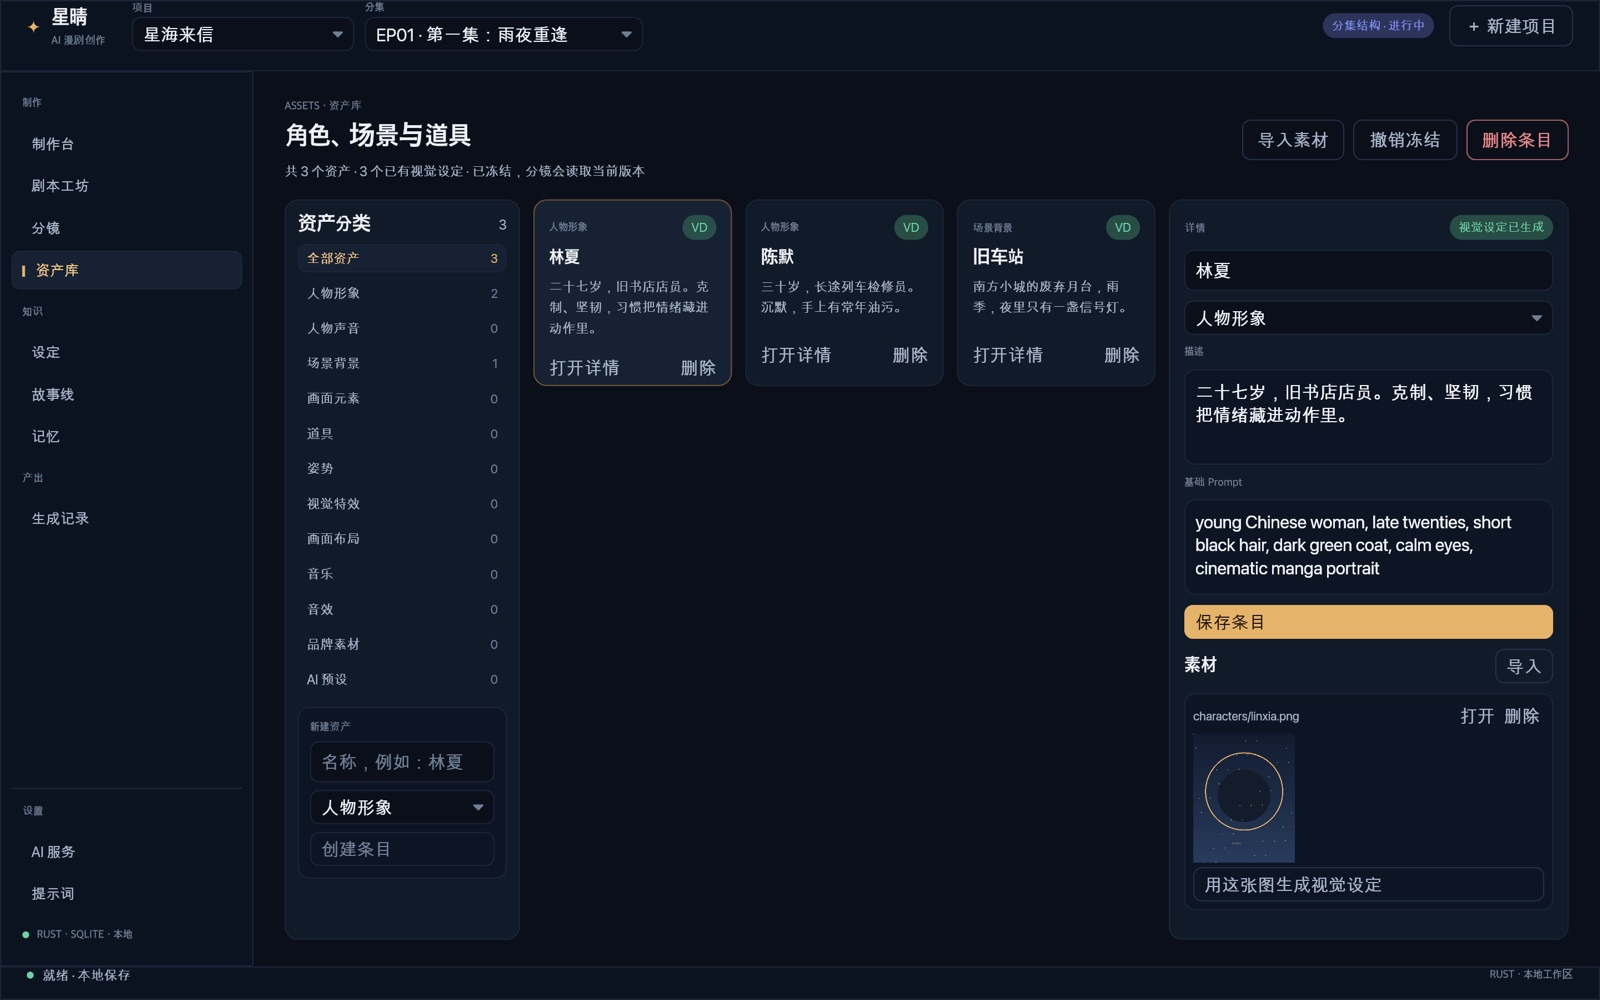
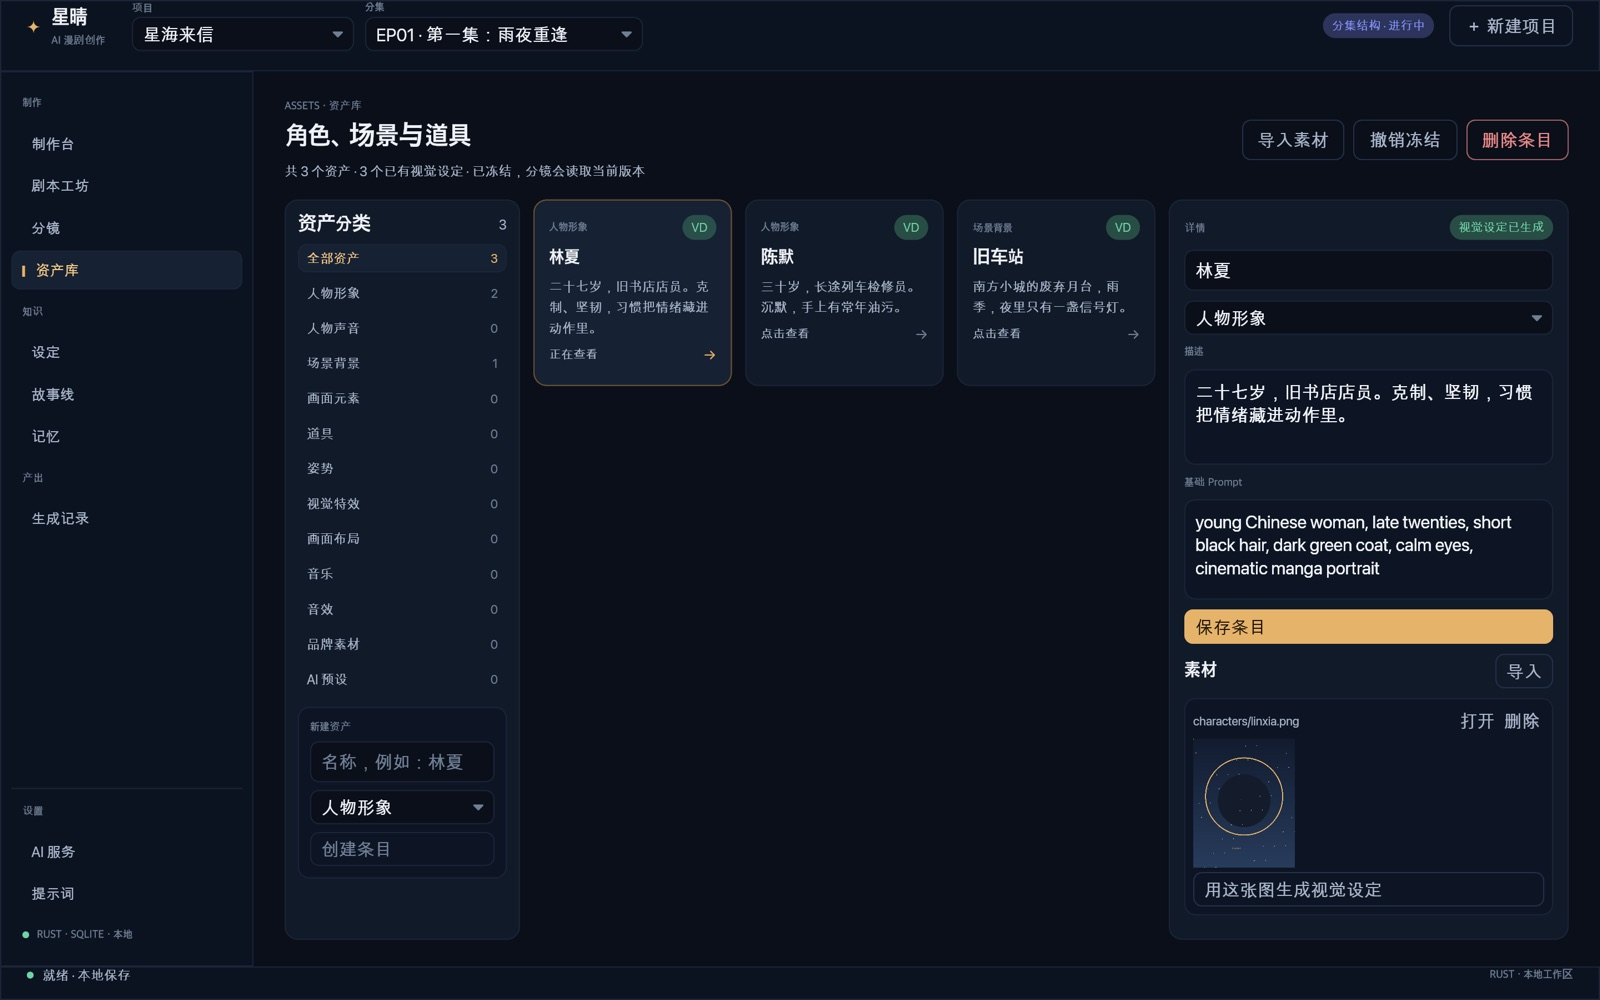
fix: make asset cards clickable as a whole
Selecting an asset no longer depends on the small footer button inside the grid cell; the entire card opens the detail panel and shows hover/selected states.

diff --git a/crates/aicomic-desktop/src/app.rs b/crates/aicomic-desktop/src/app.rs
@@ -4928,7 +4928,7 @@ impl App {
         let selected = self.selected_item == Some(item_id);
         let dna = self.visual_dna_ids.contains(&item_id);
         let description = label(item, "description");
-        container(
+        button(
             column![
                 row![
                     ui::eyebrow(category_label(label(item, "category"))),
@@ -4951,17 +4951,17 @@ impl App {
                 .size(12)
                 .color(ui::TEXT_SECONDARY)
                 .line_height(1.55),
-                space::vertical(),
                 row![
-                    button("打开详情")
-                        .style(ui::ghost)
-                        .padding([4, 0])
-                        .on_press(Message::SelectItem(item_id)),
+                    ui::muted(if selected {
+                        "正在查看"
+                    } else {
+                        "点击查看"
+                    })
+                    .size(11),
                     space::horizontal(),
-                    button("删除")
-                        .style(ui::ghost)
-                        .padding([4, 0])
-                        .on_press(Message::DeleteItem(item_id)),
+                    text("→")
+                        .size(13)
+                        .color(if selected { ui::GOLD } else { ui::TEXT_MUTED }),
                 ]
                 .align_y(iced::Center),
             ]
@@ -4970,27 +4970,33 @@ impl App {
         .padding(14)
         .width(Fill)
         .height(Fill)
-        .style(move |_: &Theme| container::Style {
-            background: Some(
-                if selected {
-                    ui::SURFACE_HIGH
-                } else {
-                    ui::SURFACE
-                }
-                .into(),
-            ),
-            border: iced::Border {
-                color: if selected {
-                    ui::GOLD_DIM
-                } else {
-                    ui::LINE_SOFT
+        .style(move |_: &Theme, status| {
+            let hovered = matches!(status, button::Status::Hovered | button::Status::Pressed);
+            button::Style {
+                background: Some(
+                    if selected || hovered {
+                        ui::SURFACE_HIGH
+                    } else {
+                        ui::SURFACE
+                    }
+                    .into(),
+                ),
+                text_color: ui::TEXT,
+                border: iced::Border {
+                    color: if selected {
+                        ui::GOLD_DIM
+                    } else if hovered {
+                        ui::LINE
+                    } else {
+                        ui::LINE_SOFT
+                    },
+                    width: 1.0,
+                    radius: 12.0.into(),
                 },
-                width: 1.0,
-                radius: 12.0.into(),
-            },
-            text_color: Some(ui::TEXT),
-            ..container::Style::default()
+                ..button::Style::default()
+            }
         })
+        .on_press(Message::SelectItem(item_id))
         .into()
     }
 

diff --git a/docs/design/星晴工作流与界面设计.md b/docs/design/星晴工作流与界面设计.md
@@ -306,7 +306,7 @@ ASSETS · 资产库                              [导入素材] [冻结资产]
 ```
 
 - 分类是内容导航，不用下拉框藏在右上角。
-- 资产卡显示"是否有视觉设定"；这是分镜一致性的前置条件，比文件名重要。
+- 资产卡整张可点击选择，不依赖卡内的小按钮；卡片显示"是否有视觉设定"，这是分镜一致性的前置条件，比文件名重要。
 - 详情面板保留名称、分类、描述、基础 Prompt、素材导入/删除。
 - 冻结按钮是项目级闸门；冻结后新增/修改/删除资产会自动解除冻结，并在制作台提示重新确认。
 - 未选资产时，详情面板显示导入与建资产的简短说明，不留空白。
